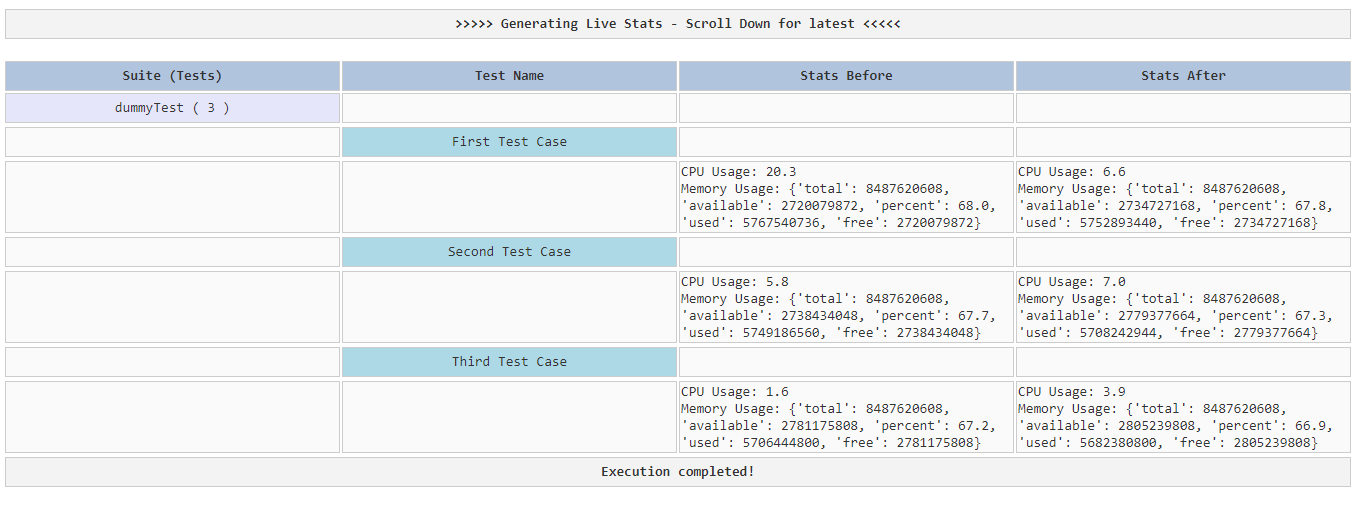
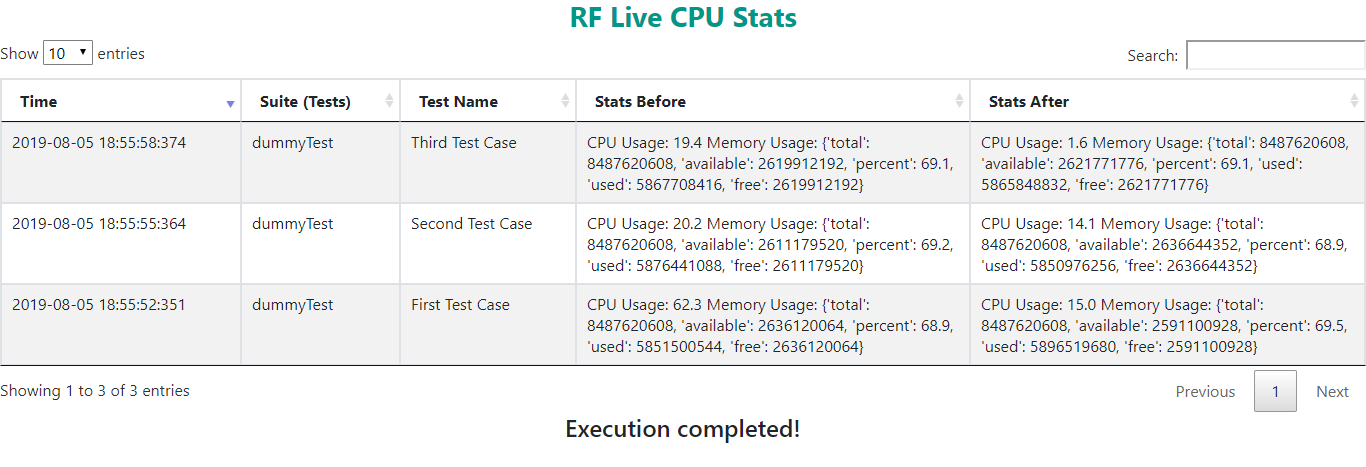
Modified memory stats

diff --git a/MemoryStats.html b/MemoryStats.html
@@ -1,131 +1,74 @@
 
         <html>
-            <head>
-                <title>Live Memory Stats</title>
-                <meta http-equiv="refresh" content="5" >
-                <style>
-                    table {  
-                        color: #333; /* Lighten up font color */
-                        font-family: Consolas, Helvetica, Arial, sans-serif;
-                        table-layout: fixed;
-                        width: 100%;
-                        font-size: 14px;
-                    }
+            <title>Live Memory Stats</title>
+            <meta http-equiv="refresh" content="100">
+            <link href="https://cdn.datatables.net/1.10.19/css/jquery.dataTables.min.css" rel="stylesheet" />
+            <link href="https://cdnjs.cloudflare.com/ajax/libs/twitter-bootstrap/4.1.3/css/bootstrap.min.css" rel="stylesheet" />
+            <script src="https://code.jquery.com/jquery-3.3.1.js" type="text/javascript"></script>
+            <script src="https://cdn.datatables.net/1.10.19/js/jquery.dataTables.min.js" type="text/javascript"></script>
+            <script src="https://cdn.datatables.net/buttons/1.5.2/js/dataTables.buttons.min.js" type="text/javascript"></script>
+            <script src="https://cdn.datatables.net/buttons/1.5.2/js/buttons.flash.min.js" type="text/javascript"></script>
+            <script>$(document).ready(function() {$('#live').DataTable({"order": [[0, "desc"]]});});</script>
+        </html>
 
-                    td, th { border: 1px solid #CCC; height: 30px; } /* Make cells a bit taller */
-
-                    th {  
-                        background: #F3F3F3; /* Light grey background */
-                        font-weight: bold; /* Make sure they're bold */
-                    }
-
-                    td {  
-                        background: #FAFAFA; /* Lighter grey background */
-                        text-align: center; /* Center our text */
-                        width: 100; 
-                        /* css-3 */
-                        white-space: -o-pre-wrap; 
-                        word-wrap: break-word;
-                        white-space: pre-wrap; 
-                        white-space: -moz-pre-wrap; 
-                        white-space: -pre-wrap;
-                    }
-                </style>
-            </head>
-            <body>
-            <table>
-                <tr>
-                    <th> >>>>> Generating Live Stats - Scroll Down for latest <<<<< </th>
-                </tr>
-            </table>
-                </br>
+        <body>
+            <h3 style="color:#009688;text-align:center"><b>RF Live CPU Stats</b></h3>
+            <table id="live" class="table table-striped table-bordered">
+                <thead>
+                    <tr>
+                        <th>Time</th>
+                        <th>Suite (Tests)</th>
+                        <th>Test Name</th>
+                        <th>Stats Before</th>
+                        <th>Stats After</th>
+                    </tr>
+                </thead>
+                <tbody>
         
-        
-                <table>
+                
                     <tr>
-                        <th style="background-color:LIGHTSTEELBLUE">Suite (Tests)</th>
-                        <th style="background-color:LIGHTSTEELBLUE">Test Name</th>
-                        <th style="background-color:LIGHTSTEELBLUE">Stats Before</th>
-                        <th style="background-color:LIGHTSTEELBLUE">Stats After</th>
+                        <td style="text-align: left;">2019-08-05 18:55:52:351</td>
+                        <td style="text-align: left;max-width:300px;">dummyTest</td>
+                        <td style="text-align: left;max-width:300px;">First Test Case</td>
+                        <td style="text-align: left;max-width:300px;">CPU Usage: 62.3
+Memory Usage: {'total': 8487620608, 'available': 2636120064, 'percent': 68.9, 'used': 5851500544, 'free': 2636120064}</td>
+                        <td style="text-align: left;max-width:300px;">CPU Usage: 15.0
+Memory Usage: {'total': 8487620608, 'available': 2591100928, 'percent': 69.5, 'used': 5896519680, 'free': 2591100928}</td>
                     </tr>
-                    <tr>
-                        <td style="background-color:LAVENDER">dummyTest ( 3 )</td>
-                        <td></td>
-                        <td></td>
-                        <td></td>
-                    </tr>
-                </table>
+                
 
             
-                <table>
+                
                     <tr>
-                        <td></td>
-                        <td style="background-color:LIGHTBLUE">First Test Case</td>
-                        <td></td>
-                        <td></td>                        
+                        <td style="text-align: left;">2019-08-05 18:55:55:364</td>
+                        <td style="text-align: left;max-width:300px;">dummyTest</td>
+                        <td style="text-align: left;max-width:300px;">Second Test Case</td>
+                        <td style="text-align: left;max-width:300px;">CPU Usage: 20.2
+Memory Usage: {'total': 8487620608, 'available': 2611179520, 'percent': 69.2, 'used': 5876441088, 'free': 2611179520}</td>
+                        <td style="text-align: left;max-width:300px;">CPU Usage: 14.1
+Memory Usage: {'total': 8487620608, 'available': 2636644352, 'percent': 68.9, 'used': 5850976256, 'free': 2636644352}</td>
                     </tr>
-                </table>
+                
 
             
-                <table>
+                
                     <tr>
-                        <td></td>
-                        <td></td>
-                        <td style="text-align: left;">CPU Usage: 20.3
-Memory Usage: {'total': 8487620608, 'available': 2720079872, 'percent': 68.0, 'used': 5767540736, 'free': 2720079872}</td>
-                        <td style="text-align: left;">CPU Usage: 6.6
-Memory Usage: {'total': 8487620608, 'available': 2734727168, 'percent': 67.8, 'used': 5752893440, 'free': 2734727168}</td>
+                        <td style="text-align: left;">2019-08-05 18:55:58:374</td>
+                        <td style="text-align: left;max-width:300px;">dummyTest</td>
+                        <td style="text-align: left;max-width:300px;">Third Test Case</td>
+                        <td style="text-align: left;max-width:300px;">CPU Usage: 19.4
+Memory Usage: {'total': 8487620608, 'available': 2619912192, 'percent': 69.1, 'used': 5867708416, 'free': 2619912192}</td>
+                        <td style="text-align: left;max-width:300px;">CPU Usage: 1.6
+Memory Usage: {'total': 8487620608, 'available': 2621771776, 'percent': 69.1, 'used': 5865848832, 'free': 2621771776}</td>
                     </tr>
-                </table>
+                
 
             
-                <table>
-                    <tr>
-                        <td></td>
-                        <td style="background-color:LIGHTBLUE">Second Test Case</td>
-                        <td></td>
-                        <td></td>                        
-                    </tr>
-                </table>
-
-            
-                <table>
-                    <tr>
-                        <td></td>
-                        <td></td>
-                        <td style="text-align: left;">CPU Usage: 5.8
-Memory Usage: {'total': 8487620608, 'available': 2738434048, 'percent': 67.7, 'used': 5749186560, 'free': 2738434048}</td>
-                        <td style="text-align: left;">CPU Usage: 7.0
-Memory Usage: {'total': 8487620608, 'available': 2779377664, 'percent': 67.3, 'used': 5708242944, 'free': 2779377664}</td>
-                    </tr>
-                </table>
-
-            
-                <table>
-                    <tr>
-                        <td></td>
-                        <td style="background-color:LIGHTBLUE">Third Test Case</td>
-                        <td></td>
-                        <td></td>                        
-                    </tr>
-                </table>
-
-            
-                <table>
-                    <tr>
-                        <td></td>
-                        <td></td>
-                        <td style="text-align: left;">CPU Usage: 1.6
-Memory Usage: {'total': 8487620608, 'available': 2781175808, 'percent': 67.2, 'used': 5706444800, 'free': 2781175808}</td>
-                        <td style="text-align: left;">CPU Usage: 3.9
-Memory Usage: {'total': 8487620608, 'available': 2805239808, 'percent': 66.9, 'used': 5682380800, 'free': 2805239808}</td>
-                    </tr>
-                </table>
-
-            
-            <table>
+            <table align="center">
                 <tr>
-                    <th>Execution completed! </th>
+                    <th>
+                        <h4>Execution completed! </h4>
+                    </th>
                 </tr>
             </table>
         

diff --git a/MemoryStatsListener.py b/MemoryStatsListener.py
@@ -1,10 +1,11 @@
 import os 
 import webbrowser
 import psutil
+import datetime
 
 class MemoryStatsListener:
 
-    ROBOT_LISTENER_API_VERSION = 3
+    ROBOT_LISTENER_API_VERSION = 2
 
     def __init__(self):
 
@@ -12,46 +13,30 @@ class MemoryStatsListener:
 
         message = """
         <html>
-            <head>
-                <title>Live Memory Stats</title>
-                <meta http-equiv="refresh" content="5" >
-                <style>
-                    table {  
-                        color: #333; /* Lighten up font color */
-                        font-family: Consolas, Helvetica, Arial, sans-serif;
-                        table-layout: fixed;
-                        width: 100%;
-                        font-size: 14px;
-                    }
+            <title>Live Memory Stats</title>
+            <meta http-equiv="refresh" content="100">
+            <link href="https://cdn.datatables.net/1.10.19/css/jquery.dataTables.min.css" rel="stylesheet" />
+            <link href="https://cdnjs.cloudflare.com/ajax/libs/twitter-bootstrap/4.1.3/css/bootstrap.min.css" rel="stylesheet" />
+            <script src="https://code.jquery.com/jquery-3.3.1.js" type="text/javascript"></script>
+            <script src="https://cdn.datatables.net/1.10.19/js/jquery.dataTables.min.js" type="text/javascript"></script>
+            <script src="https://cdn.datatables.net/buttons/1.5.2/js/dataTables.buttons.min.js" type="text/javascript"></script>
+            <script src="https://cdn.datatables.net/buttons/1.5.2/js/buttons.flash.min.js" type="text/javascript"></script>
+            <script>$(document).ready(function() {$('#live').DataTable({"order": [[0, "desc"]]});});</script>
+        </html>
 
-                    td, th { border: 1px solid #CCC; height: 30px; } /* Make cells a bit taller */
-
-                    th {  
-                        background: #F3F3F3; /* Light grey background */
-                        font-weight: bold; /* Make sure they're bold */
-                    }
-
-                    td {  
-                        background: #FAFAFA; /* Lighter grey background */
-                        text-align: center; /* Center our text */
-                        width: 100; 
-                        /* css-3 */
-                        white-space: -o-pre-wrap; 
-                        word-wrap: break-word;
-                        white-space: pre-wrap; 
-                        white-space: -moz-pre-wrap; 
-                        white-space: -pre-wrap;
-                    }
-                </style>
-            </head>
-            <body>
-            <table>
-                <tr>
-                    <th> >>>>> Generating Live Stats - Scroll Down for latest <<<<< </th>
-                </tr>
-            </table>
-                </br>
-        
+        <body>
+            <h3 style="color:#009688;text-align:center"><b>RF Live CPU Stats</b></h3>
+            <table id="live" class="table table-striped table-bordered">
+                <thead>
+                    <tr>
+                        <th>Time</th>
+                        <th>Suite (Tests)</th>
+                        <th>Test Name</th>
+                        <th>Stats Before</th>
+                        <th>Stats After</th>
+                    </tr>
+                </thead>
+                <tbody>
         """
 
         live_logs_file.write(message)
@@ -62,70 +47,33 @@ class MemoryStatsListener:
 
         webbrowser.open_new_tab(filename)
 
-    def start_suite(self, data, result):
-        self.test_count = len(data.tests)
-
-        if self.test_count != 0:
-
-            live_logs_file = open('MemoryStats.html','a+')
-
-            message = """
-                <table>
-                    <tr>
-                        <th style="background-color:LIGHTSTEELBLUE">Suite (Tests)</th>
-                        <th style="background-color:LIGHTSTEELBLUE">Test Name</th>
-                        <th style="background-color:LIGHTSTEELBLUE">Stats Before</th>
-                        <th style="background-color:LIGHTSTEELBLUE">Stats After</th>
-                    </tr>
-                    <tr>
-                        <td style="background-color:LAVENDER">%s ( %s )</td>
-                        <td></td>
-                        <td></td>
-                        <td></td>
-                    </tr>
-                </table>
-
-            """ %(str(data.name),str(len(data.tests)))
-
-            live_logs_file.write(message)
-            live_logs_file.close()
+    def start_suite(self, name, attrs):
+        self.suite_name = name
+        self.test_count = len(attrs['tests'])
     
-    def start_test(self, data, test):
+    def start_test(self, name, attrs):
+        self.test_name = name
         if self.test_count != 0:
-            live_logs_file = open('MemoryStats.html','a+')
             self.statsBefore = get_cpu_and_memory_usage_stats()
-
-            message = """
-                <table>
-                    <tr>
-                        <td></td>
-                        <td style="background-color:LIGHTBLUE">%s</td>
-                        <td></td>
-                        <td></td>                        
-                    </tr>
-                </table>
-
-            """ %(str(test))
-
-            live_logs_file.write(message)
-            live_logs_file.close()
     
-    def end_test(self, data, test):
+    def end_test(self, name, attrs):
         if self.test_count != 0:
             live_logs_file = open('MemoryStats.html','a+')
+            self.test_end_time = get_current_date_time('%Y-%m-%d %H:%M:%S:%f',True)
             self.statsAfter = get_cpu_and_memory_usage_stats()
 
             message = """
-                <table>
+                
                     <tr>
-                        <td></td>
-                        <td></td>
                         <td style="text-align: left;">%s</td>
-                        <td style="text-align: left;">%s</td>
+                        <td style="text-align: left;max-width:300px;">%s</td>
+                        <td style="text-align: left;max-width:300px;">%s</td>
+                        <td style="text-align: left;max-width:300px;">%s</td>
+                        <td style="text-align: left;max-width:300px;">%s</td>
                     </tr>
-                </table>
+                
 
-            """ %(str(self.statsBefore), str(self.statsAfter))
+            """ %(str(self.test_end_time), str(self.suite_name), str(name), str(self.statsBefore), str(self.statsAfter))
 
             live_logs_file.write(message)
             live_logs_file.close()
@@ -134,9 +82,11 @@ class MemoryStatsListener:
 
         live_logs_file = open('MemoryStats.html','a+')
         message = """
-            <table>
+            <table align="center">
                 <tr>
-                    <th>Execution completed! </th>
+                    <th>
+                        <h4>Execution completed! </h4>
+                    </th>
                 </tr>
             </table>
         """
@@ -157,3 +107,12 @@ def get_cpu_and_memory_usage_stats():
     stats = "CPU Usage: " + str(cpu) + "\n" + "Memory Usage: " + str(dictperf)
 
     return stats
+
+def get_current_date_time(format,trim):
+    t = datetime.datetime.now()
+    if t.microsecond % 1000 >= 500:  # check if there will be rounding up
+        t = t + datetime.timedelta(milliseconds=1)  # manually round up
+    if trim:
+        return t.strftime(format)[:-3]
+    else:
+        return t.strftime(format)

diff --git a/readme.md b/readme.md
@@ -19,9 +19,9 @@ This repo consist of generating live CPU stats while execution is in progress
    > - `robot --listener MemoryStatsListener.py Tests` 
 
  - Step 4: A new browser will be opened with logs
-   > Note: Page refresh's for every 5 seconds.
+   > Note: Page refresh's for every 100 seconds.
    > - Users can modify reload time from .py file
-   > - `<meta http-equiv="refresh" content="5" >`
+   > - `<meta http-equiv="refresh" content="100" >`
 
 ---
 ### Screenshot
